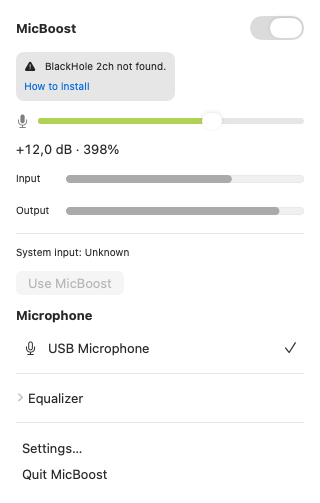
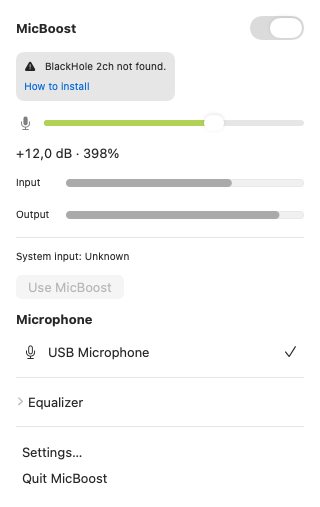
Keep mute symbol bounds stable to prevent slider layout shifts

diff --git a/Sources/MicBoostUI/Views.swift b/Sources/MicBoostUI/Views.swift
@@ -38,12 +38,15 @@ import SwiftUI
                 }.font(.caption).padding(8).background(.quaternary, in: RoundedRectangle(cornerRadius: 8))
             }
             HStack {
-                Button(action: model.mute) { Image(systemName: model.controls.muted ? "mic.slash.fill" : "mic.fill") }
-                    .buttonStyle(.borderless)
-                    .accessibilityLabel(localized("Mute"))
-                    .accessibilityValue(localized(model.controls.muted ? "On" : "Off"))
-                    .help(localized("Mute"))
-                    .keyboardShortcut("m", modifiers: [])
+                Button(action: model.mute) {
+                    Image(systemName: model.controls.muted ? "mic.slash.fill" : "mic.fill")
+                        .frame(width: 20, height: 20)
+                }
+                .buttonStyle(.borderless)
+                .accessibilityLabel(localized("Mute"))
+                .accessibilityValue(localized(model.controls.muted ? "On" : "Off"))
+                .help(localized("Mute"))
+                .keyboardShortcut("m", modifiers: [])
                 Slider(
                     value: Binding(get: { model.controls.gainDB }, set: model.gain), in: Settings.gainRange
                 )

diff --git a/docs/ui.md b/docs/ui.md
@@ -38,7 +38,7 @@ Conteúdo, de cima para baixo (SwiftUI, `PanelView`):
    - **Desligar:** para o motor por completo (rampa, `AudioDeviceStop`, IOProc e agregado destruídos), de modo que o microfone deixa de ser capturado e o indicador de microfone do macOS apaga. A entrada padrão é restaurada conforme a [política](audio-engine.md#política-de-entrada-padrão-defaultinputmanager), e o ícone vira `mic`.
    - **Ligar:** reconstrói o motor com a fonte e os ajustes persistidos e reaplica a política de entrada padrão.
    - O estado persiste (`processingEnabled`), e a troca nunca fecha o painel.
-2. **Ganho:** botão de mute com o ícone `mic.fill`/`mic.slash.fill`, `Slider` de ganho de −12 a +24 dB e rótulo `+12,0 dB · 398%`. O valor é editável: clicar no rótulo abre um campo numérico em dB. O selo "Limitando" (pílula discreta) aparece durante a proteção de pico.
+2. **Ganho:** botão de mute com o ícone `mic.fill`/`mic.slash.fill` centralizado em uma área fixa de 20 × 20 pt para não deslocar o slider ao alternar, `Slider` de ganho de −12 a +24 dB e rótulo `+12,0 dB · 398%`. O valor é editável: clicar no rótulo abre um campo numérico em dB. O selo "Limitando" (pílula discreta) aparece durante a proteção de pico.
 3. **Medidores:** duas barras finas horizontais, "Entrada" e "Saída", em dBFS de −60 a 0, que só mudam de cor perto de 0. Aviso "Entrada saturada" quando `input_clipped`.
 4. **Entrada do sistema:** apenas o estado da entrada padrão; a fonte selecionada é indicada pela marcação na lista de microfones, sem uma linha adicional de caminho do áudio:
    - ok: "Entrada do sistema: MicBoost" com marcação;

diff --git a/docs/testing.md b/docs/testing.md
@@ -183,3 +183,7 @@ redundante do caminho de áudio e atualização dos medidores com o menu aberto.
 O ajuste do SDK foi validado também em um executável de teste universal
 (arm64 + x86_64), com mínimo 14, SDK 27.2 e assinatura ad hoc válida em ambas
 as arquiteturas.
+
+Ao alternar mute e restaurar o estado original, a acessibilidade reportou o slider
+de ganho com a mesma origem nas três leituras e tamanho constante de 260 × 16 pt.
+Os dois símbolos de mute ficam centralizados na mesma área de 20 × 20 pt.

diff --git a/README.md b/README.md
@@ -54,7 +54,7 @@ keeps the output below −1 dBFS; human voice calibration and listening checks r
 
 Available today:
 
-- **Gain from −12 to +24 dB**, mute and peak protection.
+- **Gain from −12 to +24 dB**, mute and peak protection; toggling mute keeps the gain slider in place.
 - **3-band EQ** with adjustable bass, parametric mids and treble, bypass and reset.
 
 - **Any Core Audio input**, captured explicitly by UID — the source does not have to be the
